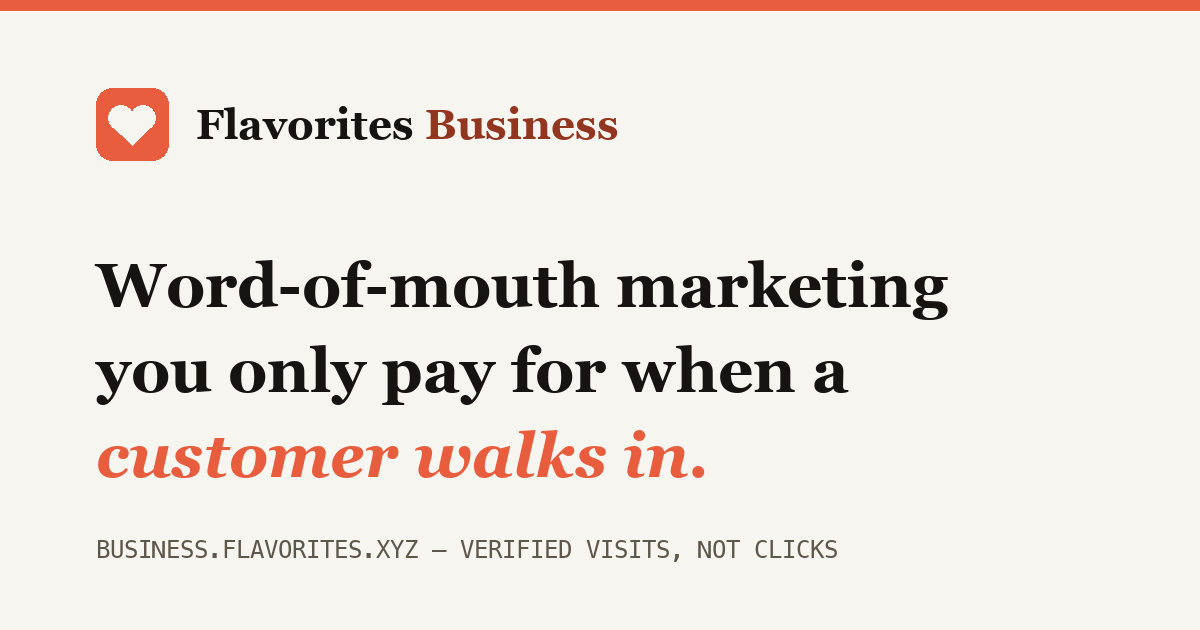
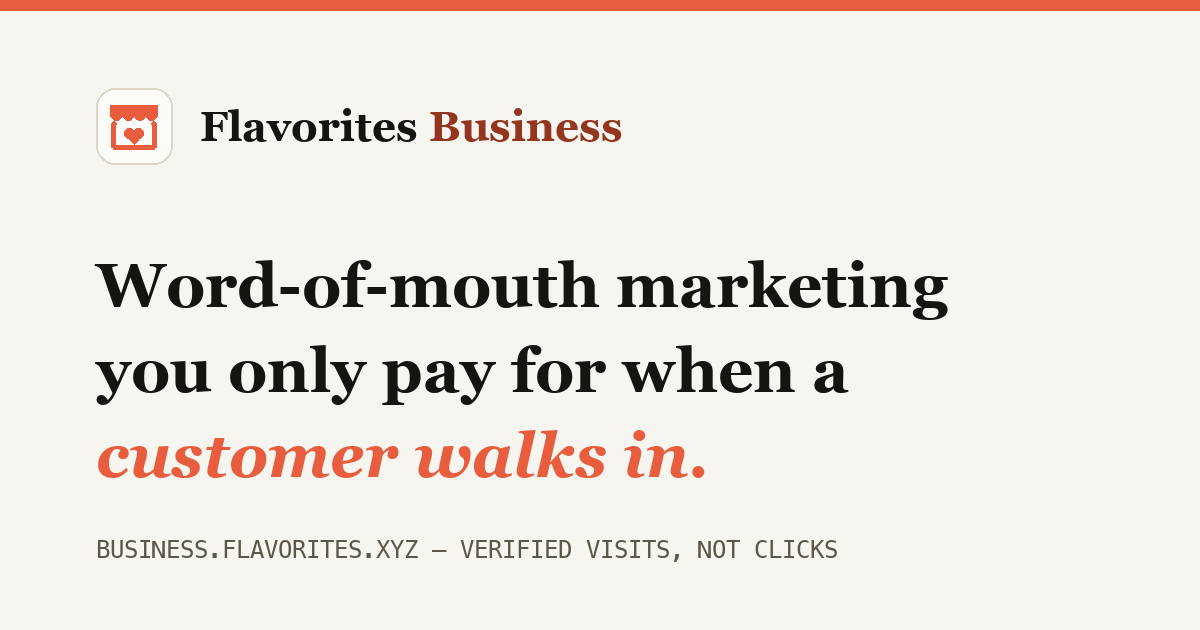
Invert brand mark for Business, Yelp-Biz style
White tile, terracotta storefront awning with the Flavorites heart as the
shop door. Applied to header/footer lockups on every page, favicon, and the
OG image.

Changed region(s): [[0.0617, 0.1206, 0.5242, 0.2714]]

diff --git a/affiliate-program/index.html b/affiliate-program/index.html
@@ -40,7 +40,7 @@
   <header class="site-header">
     <div class="container">
       <a class="brand" href="/">
-        <svg width="26" height="26" viewBox="0 0 64 64" aria-hidden="true"><rect width="64" height="64" rx="14" fill="#E85D3D"/><path d="M32 47.5 15.6 31.4a10.4 10.4 0 0 1 0-14.9 10.9 10.9 0 0 1 15.2 0L32 17.6l1.2-1.1a10.9 10.9 0 0 1 15.2 0 10.4 10.4 0 0 1 0 14.9Z" fill="#F7F5F0"/></svg>
+        <svg width="26" height="26" viewBox="0 0 64 64" aria-hidden="true"><rect x="1.5" y="1.5" width="61" height="61" rx="14" fill="#FCFBF7" stroke="#DDD6C8" stroke-width="1.5"/><path fill="#E85D3D" d="M12 15h40v7H12z M12 22a5 5 0 0 0 10 0z M22 22a5 5 0 0 0 10 0z M32 22a5 5 0 0 0 10 0z M42 22a5 5 0 0 0 10 0z"/><path fill="none" stroke="#E85D3D" stroke-width="4" stroke-linecap="round" stroke-linejoin="round" d="M15 30v20h34V30"/><path fill="#E85D3D" d="M32 46.6l-6-5.9a3.9 3.9 0 0 1 0-5.6 4.1 4.1 0 0 1 5.6 0l.4.4.4-.4a4.1 4.1 0 0 1 5.6 0 3.9 3.9 0 0 1 0 5.6Z"/></svg>
         Flavorites <span class="brand-badge">Business</span>
       </a>
       <nav class="site-nav" aria-label="Main">
@@ -167,7 +167,7 @@
       <div class="footer-grid">
         <div class="footer-brand">
           <a class="brand" href="/">
-            <svg width="24" height="24" viewBox="0 0 64 64" aria-hidden="true"><rect width="64" height="64" rx="14" fill="#E85D3D"/><path d="M32 47.5 15.6 31.4a10.4 10.4 0 0 1 0-14.9 10.9 10.9 0 0 1 15.2 0L32 17.6l1.2-1.1a10.9 10.9 0 0 1 15.2 0 10.4 10.4 0 0 1 0 14.9Z" fill="#F7F5F0"/></svg>
+            <svg width="24" height="24" viewBox="0 0 64 64" aria-hidden="true"><rect x="1.5" y="1.5" width="61" height="61" rx="14" fill="#FCFBF7" stroke="#DDD6C8" stroke-width="1.5"/><path fill="#E85D3D" d="M12 15h40v7H12z M12 22a5 5 0 0 0 10 0z M22 22a5 5 0 0 0 10 0z M32 22a5 5 0 0 0 10 0z M42 22a5 5 0 0 0 10 0z"/><path fill="none" stroke="#E85D3D" stroke-width="4" stroke-linecap="round" stroke-linejoin="round" d="M15 30v20h34V30"/><path fill="#E85D3D" d="M32 46.6l-6-5.9a3.9 3.9 0 0 1 0-5.6 4.1 4.1 0 0 1 5.6 0l.4.4.4-.4a4.1 4.1 0 0 1 5.6 0 3.9 3.9 0 0 1 0 5.6Z"/></svg>
             Flavorites <span class="brand-badge">Business</span>
           </a>
           <p>Reward-only performance marketing for restaurants. Claim your storefront, reward the fans who bring you verified customers, and pay only for visits — never clicks.</p>

diff --git a/claim/index.html b/claim/index.html
@@ -40,7 +40,7 @@
   <header class="site-header">
     <div class="container">
       <a class="brand" href="/">
-        <svg width="26" height="26" viewBox="0 0 64 64" aria-hidden="true"><rect width="64" height="64" rx="14" fill="#E85D3D"/><path d="M32 47.5 15.6 31.4a10.4 10.4 0 0 1 0-14.9 10.9 10.9 0 0 1 15.2 0L32 17.6l1.2-1.1a10.9 10.9 0 0 1 15.2 0 10.4 10.4 0 0 1 0 14.9Z" fill="#F7F5F0"/></svg>
+        <svg width="26" height="26" viewBox="0 0 64 64" aria-hidden="true"><rect x="1.5" y="1.5" width="61" height="61" rx="14" fill="#FCFBF7" stroke="#DDD6C8" stroke-width="1.5"/><path fill="#E85D3D" d="M12 15h40v7H12z M12 22a5 5 0 0 0 10 0z M22 22a5 5 0 0 0 10 0z M32 22a5 5 0 0 0 10 0z M42 22a5 5 0 0 0 10 0z"/><path fill="none" stroke="#E85D3D" stroke-width="4" stroke-linecap="round" stroke-linejoin="round" d="M15 30v20h34V30"/><path fill="#E85D3D" d="M32 46.6l-6-5.9a3.9 3.9 0 0 1 0-5.6 4.1 4.1 0 0 1 5.6 0l.4.4.4-.4a4.1 4.1 0 0 1 5.6 0 3.9 3.9 0 0 1 0 5.6Z"/></svg>
         Flavorites <span class="brand-badge">Business</span>
       </a>
       <nav class="site-nav" aria-label="Main">
@@ -127,7 +127,7 @@
       <div class="footer-grid">
         <div class="footer-brand">
           <a class="brand" href="/">
-            <svg width="24" height="24" viewBox="0 0 64 64" aria-hidden="true"><rect width="64" height="64" rx="14" fill="#E85D3D"/><path d="M32 47.5 15.6 31.4a10.4 10.4 0 0 1 0-14.9 10.9 10.9 0 0 1 15.2 0L32 17.6l1.2-1.1a10.9 10.9 0 0 1 15.2 0 10.4 10.4 0 0 1 0 14.9Z" fill="#F7F5F0"/></svg>
+            <svg width="24" height="24" viewBox="0 0 64 64" aria-hidden="true"><rect x="1.5" y="1.5" width="61" height="61" rx="14" fill="#FCFBF7" stroke="#DDD6C8" stroke-width="1.5"/><path fill="#E85D3D" d="M12 15h40v7H12z M12 22a5 5 0 0 0 10 0z M22 22a5 5 0 0 0 10 0z M32 22a5 5 0 0 0 10 0z M42 22a5 5 0 0 0 10 0z"/><path fill="none" stroke="#E85D3D" stroke-width="4" stroke-linecap="round" stroke-linejoin="round" d="M15 30v20h34V30"/><path fill="#E85D3D" d="M32 46.6l-6-5.9a3.9 3.9 0 0 1 0-5.6 4.1 4.1 0 0 1 5.6 0l.4.4.4-.4a4.1 4.1 0 0 1 5.6 0 3.9 3.9 0 0 1 0 5.6Z"/></svg>
             Flavorites <span class="brand-badge">Business</span>
           </a>
           <p>Reward-only performance marketing for restaurants. Claim your storefront, reward the fans who bring you verified customers, and pay only for visits — never clicks.</p>

diff --git a/faq/index.html b/faq/index.html
@@ -108,7 +108,7 @@
   <header class="site-header">
     <div class="container">
       <a class="brand" href="/">
-        <svg width="26" height="26" viewBox="0 0 64 64" aria-hidden="true"><rect width="64" height="64" rx="14" fill="#E85D3D"/><path d="M32 47.5 15.6 31.4a10.4 10.4 0 0 1 0-14.9 10.9 10.9 0 0 1 15.2 0L32 17.6l1.2-1.1a10.9 10.9 0 0 1 15.2 0 10.4 10.4 0 0 1 0 14.9Z" fill="#F7F5F0"/></svg>
+        <svg width="26" height="26" viewBox="0 0 64 64" aria-hidden="true"><rect x="1.5" y="1.5" width="61" height="61" rx="14" fill="#FCFBF7" stroke="#DDD6C8" stroke-width="1.5"/><path fill="#E85D3D" d="M12 15h40v7H12z M12 22a5 5 0 0 0 10 0z M22 22a5 5 0 0 0 10 0z M32 22a5 5 0 0 0 10 0z M42 22a5 5 0 0 0 10 0z"/><path fill="none" stroke="#E85D3D" stroke-width="4" stroke-linecap="round" stroke-linejoin="round" d="M15 30v20h34V30"/><path fill="#E85D3D" d="M32 46.6l-6-5.9a3.9 3.9 0 0 1 0-5.6 4.1 4.1 0 0 1 5.6 0l.4.4.4-.4a4.1 4.1 0 0 1 5.6 0 3.9 3.9 0 0 1 0 5.6Z"/></svg>
         Flavorites <span class="brand-badge">Business</span>
       </a>
       <nav class="site-nav" aria-label="Main">
@@ -209,7 +209,7 @@
       <div class="footer-grid">
         <div class="footer-brand">
           <a class="brand" href="/">
-            <svg width="24" height="24" viewBox="0 0 64 64" aria-hidden="true"><rect width="64" height="64" rx="14" fill="#E85D3D"/><path d="M32 47.5 15.6 31.4a10.4 10.4 0 0 1 0-14.9 10.9 10.9 0 0 1 15.2 0L32 17.6l1.2-1.1a10.9 10.9 0 0 1 15.2 0 10.4 10.4 0 0 1 0 14.9Z" fill="#F7F5F0"/></svg>
+            <svg width="24" height="24" viewBox="0 0 64 64" aria-hidden="true"><rect x="1.5" y="1.5" width="61" height="61" rx="14" fill="#FCFBF7" stroke="#DDD6C8" stroke-width="1.5"/><path fill="#E85D3D" d="M12 15h40v7H12z M12 22a5 5 0 0 0 10 0z M22 22a5 5 0 0 0 10 0z M32 22a5 5 0 0 0 10 0z M42 22a5 5 0 0 0 10 0z"/><path fill="none" stroke="#E85D3D" stroke-width="4" stroke-linecap="round" stroke-linejoin="round" d="M15 30v20h34V30"/><path fill="#E85D3D" d="M32 46.6l-6-5.9a3.9 3.9 0 0 1 0-5.6 4.1 4.1 0 0 1 5.6 0l.4.4.4-.4a4.1 4.1 0 0 1 5.6 0 3.9 3.9 0 0 1 0 5.6Z"/></svg>
             Flavorites <span class="brand-badge">Business</span>
           </a>
           <p>Reward-only performance marketing for restaurants. Claim your storefront, reward the fans who bring you verified customers, and pay only for visits — never clicks.</p>

diff --git a/how-it-works/index.html b/how-it-works/index.html
@@ -40,7 +40,7 @@
   <header class="site-header">
     <div class="container">
       <a class="brand" href="/">
-        <svg width="26" height="26" viewBox="0 0 64 64" aria-hidden="true"><rect width="64" height="64" rx="14" fill="#E85D3D"/><path d="M32 47.5 15.6 31.4a10.4 10.4 0 0 1 0-14.9 10.9 10.9 0 0 1 15.2 0L32 17.6l1.2-1.1a10.9 10.9 0 0 1 15.2 0 10.4 10.4 0 0 1 0 14.9Z" fill="#F7F5F0"/></svg>
+        <svg width="26" height="26" viewBox="0 0 64 64" aria-hidden="true"><rect x="1.5" y="1.5" width="61" height="61" rx="14" fill="#FCFBF7" stroke="#DDD6C8" stroke-width="1.5"/><path fill="#E85D3D" d="M12 15h40v7H12z M12 22a5 5 0 0 0 10 0z M22 22a5 5 0 0 0 10 0z M32 22a5 5 0 0 0 10 0z M42 22a5 5 0 0 0 10 0z"/><path fill="none" stroke="#E85D3D" stroke-width="4" stroke-linecap="round" stroke-linejoin="round" d="M15 30v20h34V30"/><path fill="#E85D3D" d="M32 46.6l-6-5.9a3.9 3.9 0 0 1 0-5.6 4.1 4.1 0 0 1 5.6 0l.4.4.4-.4a4.1 4.1 0 0 1 5.6 0 3.9 3.9 0 0 1 0 5.6Z"/></svg>
         Flavorites <span class="brand-badge">Business</span>
       </a>
       <nav class="site-nav" aria-label="Main">
@@ -134,7 +134,7 @@
       <div class="footer-grid">
         <div class="footer-brand">
           <a class="brand" href="/">
-            <svg width="24" height="24" viewBox="0 0 64 64" aria-hidden="true"><rect width="64" height="64" rx="14" fill="#E85D3D"/><path d="M32 47.5 15.6 31.4a10.4 10.4 0 0 1 0-14.9 10.9 10.9 0 0 1 15.2 0L32 17.6l1.2-1.1a10.9 10.9 0 0 1 15.2 0 10.4 10.4 0 0 1 0 14.9Z" fill="#F7F5F0"/></svg>
+            <svg width="24" height="24" viewBox="0 0 64 64" aria-hidden="true"><rect x="1.5" y="1.5" width="61" height="61" rx="14" fill="#FCFBF7" stroke="#DDD6C8" stroke-width="1.5"/><path fill="#E85D3D" d="M12 15h40v7H12z M12 22a5 5 0 0 0 10 0z M22 22a5 5 0 0 0 10 0z M32 22a5 5 0 0 0 10 0z M42 22a5 5 0 0 0 10 0z"/><path fill="none" stroke="#E85D3D" stroke-width="4" stroke-linecap="round" stroke-linejoin="round" d="M15 30v20h34V30"/><path fill="#E85D3D" d="M32 46.6l-6-5.9a3.9 3.9 0 0 1 0-5.6 4.1 4.1 0 0 1 5.6 0l.4.4.4-.4a4.1 4.1 0 0 1 5.6 0 3.9 3.9 0 0 1 0 5.6Z"/></svg>
             Flavorites <span class="brand-badge">Business</span>
           </a>
           <p>Reward-only performance marketing for restaurants. Claim your storefront, reward the fans who bring you verified customers, and pay only for visits — never clicks.</p>

diff --git a/index.html b/index.html
@@ -62,7 +62,7 @@
   <header class="site-header">
     <div class="container">
       <a class="brand" href="/">
-        <svg width="26" height="26" viewBox="0 0 64 64" aria-hidden="true"><rect width="64" height="64" rx="14" fill="#E85D3D"/><path d="M32 47.5 15.6 31.4a10.4 10.4 0 0 1 0-14.9 10.9 10.9 0 0 1 15.2 0L32 17.6l1.2-1.1a10.9 10.9 0 0 1 15.2 0 10.4 10.4 0 0 1 0 14.9Z" fill="#F7F5F0"/></svg>
+        <svg width="26" height="26" viewBox="0 0 64 64" aria-hidden="true"><rect x="1.5" y="1.5" width="61" height="61" rx="14" fill="#FCFBF7" stroke="#DDD6C8" stroke-width="1.5"/><path fill="#E85D3D" d="M12 15h40v7H12z M12 22a5 5 0 0 0 10 0z M22 22a5 5 0 0 0 10 0z M32 22a5 5 0 0 0 10 0z M42 22a5 5 0 0 0 10 0z"/><path fill="none" stroke="#E85D3D" stroke-width="4" stroke-linecap="round" stroke-linejoin="round" d="M15 30v20h34V30"/><path fill="#E85D3D" d="M32 46.6l-6-5.9a3.9 3.9 0 0 1 0-5.6 4.1 4.1 0 0 1 5.6 0l.4.4.4-.4a4.1 4.1 0 0 1 5.6 0 3.9 3.9 0 0 1 0 5.6Z"/></svg>
         Flavorites <span class="brand-badge">Business</span>
       </a>
       <nav class="site-nav" aria-label="Main">
@@ -319,7 +319,7 @@
       <div class="footer-grid">
         <div class="footer-brand">
           <a class="brand" href="/">
-            <svg width="24" height="24" viewBox="0 0 64 64" aria-hidden="true"><rect width="64" height="64" rx="14" fill="#E85D3D"/><path d="M32 47.5 15.6 31.4a10.4 10.4 0 0 1 0-14.9 10.9 10.9 0 0 1 15.2 0L32 17.6l1.2-1.1a10.9 10.9 0 0 1 15.2 0 10.4 10.4 0 0 1 0 14.9Z" fill="#F7F5F0"/></svg>
+            <svg width="24" height="24" viewBox="0 0 64 64" aria-hidden="true"><rect x="1.5" y="1.5" width="61" height="61" rx="14" fill="#FCFBF7" stroke="#DDD6C8" stroke-width="1.5"/><path fill="#E85D3D" d="M12 15h40v7H12z M12 22a5 5 0 0 0 10 0z M22 22a5 5 0 0 0 10 0z M32 22a5 5 0 0 0 10 0z M42 22a5 5 0 0 0 10 0z"/><path fill="none" stroke="#E85D3D" stroke-width="4" stroke-linecap="round" stroke-linejoin="round" d="M15 30v20h34V30"/><path fill="#E85D3D" d="M32 46.6l-6-5.9a3.9 3.9 0 0 1 0-5.6 4.1 4.1 0 0 1 5.6 0l.4.4.4-.4a4.1 4.1 0 0 1 5.6 0 3.9 3.9 0 0 1 0 5.6Z"/></svg>
             Flavorites <span class="brand-badge">Business</span>
           </a>
           <p>Reward-only performance marketing for restaurants. Claim your storefront, reward the fans who bring you verified customers, and pay only for visits — never clicks.</p>

diff --git a/pricing/index.html b/pricing/index.html
@@ -40,7 +40,7 @@
   <header class="site-header">
     <div class="container">
       <a class="brand" href="/">
-        <svg width="26" height="26" viewBox="0 0 64 64" aria-hidden="true"><rect width="64" height="64" rx="14" fill="#E85D3D"/><path d="M32 47.5 15.6 31.4a10.4 10.4 0 0 1 0-14.9 10.9 10.9 0 0 1 15.2 0L32 17.6l1.2-1.1a10.9 10.9 0 0 1 15.2 0 10.4 10.4 0 0 1 0 14.9Z" fill="#F7F5F0"/></svg>
+        <svg width="26" height="26" viewBox="0 0 64 64" aria-hidden="true"><rect x="1.5" y="1.5" width="61" height="61" rx="14" fill="#FCFBF7" stroke="#DDD6C8" stroke-width="1.5"/><path fill="#E85D3D" d="M12 15h40v7H12z M12 22a5 5 0 0 0 10 0z M22 22a5 5 0 0 0 10 0z M32 22a5 5 0 0 0 10 0z M42 22a5 5 0 0 0 10 0z"/><path fill="none" stroke="#E85D3D" stroke-width="4" stroke-linecap="round" stroke-linejoin="round" d="M15 30v20h34V30"/><path fill="#E85D3D" d="M32 46.6l-6-5.9a3.9 3.9 0 0 1 0-5.6 4.1 4.1 0 0 1 5.6 0l.4.4.4-.4a4.1 4.1 0 0 1 5.6 0 3.9 3.9 0 0 1 0 5.6Z"/></svg>
         Flavorites <span class="brand-badge">Business</span>
       </a>
       <nav class="site-nav" aria-label="Main">
@@ -161,7 +161,7 @@
       <div class="footer-grid">
         <div class="footer-brand">
           <a class="brand" href="/">
-            <svg width="24" height="24" viewBox="0 0 64 64" aria-hidden="true"><rect width="64" height="64" rx="14" fill="#E85D3D"/><path d="M32 47.5 15.6 31.4a10.4 10.4 0 0 1 0-14.9 10.9 10.9 0 0 1 15.2 0L32 17.6l1.2-1.1a10.9 10.9 0 0 1 15.2 0 10.4 10.4 0 0 1 0 14.9Z" fill="#F7F5F0"/></svg>
+            <svg width="24" height="24" viewBox="0 0 64 64" aria-hidden="true"><rect x="1.5" y="1.5" width="61" height="61" rx="14" fill="#FCFBF7" stroke="#DDD6C8" stroke-width="1.5"/><path fill="#E85D3D" d="M12 15h40v7H12z M12 22a5 5 0 0 0 10 0z M22 22a5 5 0 0 0 10 0z M32 22a5 5 0 0 0 10 0z M42 22a5 5 0 0 0 10 0z"/><path fill="none" stroke="#E85D3D" stroke-width="4" stroke-linecap="round" stroke-linejoin="round" d="M15 30v20h34V30"/><path fill="#E85D3D" d="M32 46.6l-6-5.9a3.9 3.9 0 0 1 0-5.6 4.1 4.1 0 0 1 5.6 0l.4.4.4-.4a4.1 4.1 0 0 1 5.6 0 3.9 3.9 0 0 1 0 5.6Z"/></svg>
             Flavorites <span class="brand-badge">Business</span>
           </a>
           <p>Reward-only performance marketing for restaurants. Claim your storefront, reward the fans who bring you verified customers, and pay only for visits — never clicks.</p>

diff --git a/404.html b/404.html
@@ -19,7 +19,7 @@
   <header class="site-header">
     <div class="container">
       <a class="brand" href="/">
-        <svg width="26" height="26" viewBox="0 0 64 64" aria-hidden="true"><rect width="64" height="64" rx="14" fill="#E85D3D"/><path d="M32 47.5 15.6 31.4a10.4 10.4 0 0 1 0-14.9 10.9 10.9 0 0 1 15.2 0L32 17.6l1.2-1.1a10.9 10.9 0 0 1 15.2 0 10.4 10.4 0 0 1 0 14.9Z" fill="#F7F5F0"/></svg>
+        <svg width="26" height="26" viewBox="0 0 64 64" aria-hidden="true"><rect x="1.5" y="1.5" width="61" height="61" rx="14" fill="#FCFBF7" stroke="#DDD6C8" stroke-width="1.5"/><path fill="#E85D3D" d="M12 15h40v7H12z M12 22a5 5 0 0 0 10 0z M22 22a5 5 0 0 0 10 0z M32 22a5 5 0 0 0 10 0z M42 22a5 5 0 0 0 10 0z"/><path fill="none" stroke="#E85D3D" stroke-width="4" stroke-linecap="round" stroke-linejoin="round" d="M15 30v20h34V30"/><path fill="#E85D3D" d="M32 46.6l-6-5.9a3.9 3.9 0 0 1 0-5.6 4.1 4.1 0 0 1 5.6 0l.4.4.4-.4a4.1 4.1 0 0 1 5.6 0 3.9 3.9 0 0 1 0 5.6Z"/></svg>
         Flavorites <span class="brand-badge">Business</span>
       </a>
       <nav class="site-nav" aria-label="Main">